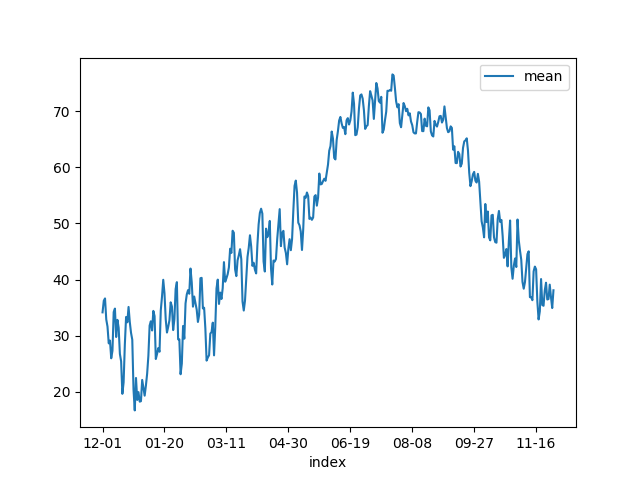
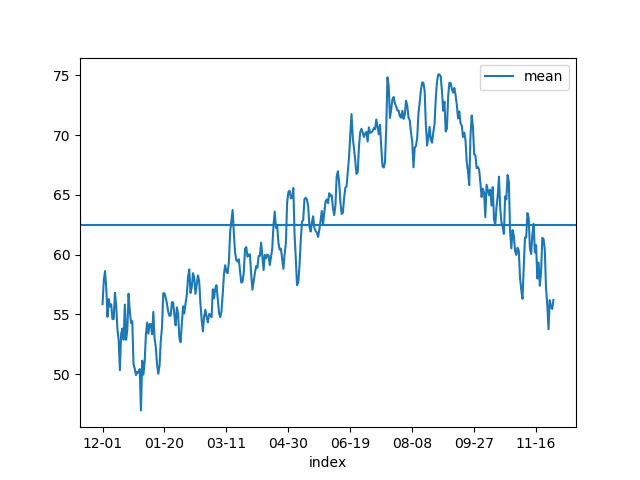
var calc

diff --git a/src/weather.py b/src/weather.py
@@ -4,6 +4,7 @@ import matplotlib.pyplot as plt
 from datetime import datetime
 
 
+
 def import_weather_data(file_path):
     #import file drops empty 1st row
     df_inter = pd.read_csv(file_path)
@@ -26,7 +27,38 @@ def filter_strange_outliers(df_year,city):
     for i in range(len(df_year[city])-1):
         while i<len(df_year[city])-1 and (abs(df_year.iloc[i][city]-df_year.iloc[i+1][city]))>14:
             df_year.drop(df_year.index[i+1],inplace = True) 
+
+def mean_town(df_temps_year,city,plot=False):
+    df_temp_2012 =  df_temps_year[0][['datetime',city]]
+    df_temp_2013 =  df_temps_year[1][['datetime',city]]
+    df_temp_2014 =  df_temps_year[2][['datetime',city]]
+    df_temp_2015 =  df_temps_year[3][['datetime',city]]
+    df_temp_2016 =  df_temps_year[4][['datetime',city]]
+    temps = [df_temp_2012,df_temp_2013,df_temp_2014,df_temp_2015,df_temp_2016]
+    means = []
+    for i in temps:
+        df_temps=i.copy()
+        filter_strange_outliers(df_temps,city)
+        means.append(df_temps.groupby([df_temps['datetime'].dt.date])[city].mean())
+    for i in means:
+        i.rename(index = lambda s: s.strftime('%m-%d'),inplace=True)
+    agg_temp = pd.concat(means ,axis =1)
+    agg_temp = agg_temp[:-1]
+    
+    agg_temp['mean'] = agg_temp.mean(axis=1)
+    agg_temp.reset_index().plot(x='index',y ='mean')
+
+    temp_var = agg_temp['mean'].var()
+    if plot:
+        plt.axhline(y=agg_temp['mean'].mean())
+        plt.ylim(-5,100)
+        file = 'img/{}_avg'.format(city)
+        plt.savefig(file)
+        plt.show()
+    return temp_var
+
    
+
 if __name__ == "__main__":
     #import weather csv files
     #df_humid= import_weather_data('data/humidity.csv')
@@ -74,66 +106,50 @@ if __name__ == "__main__":
     #df_description_2012 = split_by_date(df_description,date_start,date_end)
 
     #filter by city
-    #df_humid_2012 =  df_humid_2012[['datetime','Denver']]
-    df_temp_2012_den =  df_temps_year[0][['datetime','Denver']]
-    df_temp_2013_den =  df_temps_year[1][['datetime','Denver']]
-    df_temp_2014_den =  df_temps_year[2][['datetime','Denver']]
-    df_temp_2015_den =  df_temps_year[3][['datetime','Denver']]
-    df_temp_2016_den =  df_temps_year[4][['datetime','Denver']]
+    den_var = mean_town(df_temps_year,'Denver',True)
+    sd_var =mean_town(df_temps_year, "San Diego",True)
+    
+    #calc var for every city
+    # cities =df_temp.columns[1:]
+    # daily_mean_temp_var =[]
+    # for i in cities:
+    #     daily_mean_temp_var.append(mean_town(df_temps_year,i))
+    # var_tuples = list(zip(cities,daily_mean_temp_var))
+    # df_daily_mean_temp_var = pd.DataFrame(var_tuples, columns =['City', "Daily avg temperature variance"])
 
-   
 
-    df_temp_2012_sd =  df_temps_year[0][['datetime','San Diego']]
-    df_temp_2013_sd =  df_temps_year[1][['datetime','San Diego']]
-    df_temp_2014_sd =  df_temps_year[2][['datetime','San Diego']]
-    df_temp_2015_sd =  df_temps_year[3][['datetime','San Diego']]
-    df_temp_2016_sd =  df_temps_year[4][['datetime','San Diego']]
+  
+    # df_daily_mean_temp_var.savefig('daily_mean_temp_var.png')
+
 
     
+    
 
+    
+    #df_humid_2012 =  df_humid_2012[['datetime','Denver']]
     #df_pres_2012 =  df_pres_2012[['datetime','Denver']]
     #df_wind_2012 =  df_wind_2012[['datetime','Denver']]
-    #df_description_2012 =  df_description_2012[['datetime','Denver']] 
+    #df_description_2012 =  df_description_2012[['datetime','Denver']]  
     #print(df_description_2012['Denver'].unique())
 
     #drop inaccurate pressures
     #df_pres_2012.drop(df_pres_2012[df_pres_2012['Denver']<990].index,inplace = True)
     #df_pres_2012.drop(df_pres_2012[df_pres_2012['Denver']>1045].index,inplace = True)
 
+    
+    # one year temp data
+    df_temp_2012_den =  df_temps_year[0][['datetime','Denver']]
+
     df_temp_2012=df_temp_2012_den.copy()
     filter_strange_outliers(df_temp_2012,'Denver')
-    df_temp_2012_daily_mean = df_temp_2012.groupby([df_temp_2012['datetime'].dt.date])['Denver'].mean()
-
-    df_temp_2013=df_temp_2013_den.copy()
-    filter_strange_outliers(df_temp_2013,'Denver')
-    df_temp_2013_daily_mean = df_temp_2013.groupby([df_temp_2013['datetime'].dt.date])['Denver'].mean()
-
-    df_temp_2014=df_temp_2014_den.copy()
-    filter_strange_outliers(df_temp_2014,'Denver')
-    df_temp_2014_daily_mean = df_temp_2014.groupby([df_temp_2014['datetime'].dt.date])['Denver'].mean()
-
-    df_temp_2015=df_temp_2015_den.copy()
-    filter_strange_outliers(df_temp_2015,'Denver')
-    df_temp_2015_daily_mean = df_temp_2015.groupby([df_temp_2015['datetime'].dt.date])['Denver'].mean()
-
-    df_temp_2016=df_temp_2016_den.copy()
-    filter_strange_outliers(df_temp_2016,'Denver')
-    df_temp_2016_daily_mean = df_temp_2016.groupby([df_temp_2016['datetime'].dt.date])['Denver'].mean()
-   
-
-
     
-    df_temp_y_sd = df_temp_2012_sd.copy()
-    filter_strange_outliers(df_temp_y_sd,'San Diego')
-    #calc nans    
    
-    print(1-(len(df_temp_2012['Denver'].dropna())/len(df_temp_2012_den)))
-    print(1-(len(df_temp_2013['Denver'].dropna())/len(df_temp_2013_den)))
-    print(1-(len(df_temp_2014['Denver'].dropna())/len(df_temp_2014_den)))
-    print(1-(len(df_temp_2015['Denver'].dropna())/len(df_temp_2015_den)))
-    print(1-(len(df_temp_2016['Denver'].dropna())/len(df_temp_2016_den)))
 
-    print(1-(len(df_temp_y_sd['San Diego'].dropna())/len(df_temp_2012_sd)))
+
+    df_temp_2012_sd_c =  df_temps_year[0][['datetime','San Diego']]
+    df_temp_2012_sd = df_temp_2012_sd_c.copy()
+    filter_strange_outliers(df_temp_2012_sd,'San Diego')
+    
     
    
     
@@ -162,7 +178,7 @@ if __name__ == "__main__":
     
     
     
-    
+    df_temp_2012_daily_mean = df_temp_2012.groupby([df_temp_2012['datetime'].dt.date])['Denver'].mean()
     df_temp_2012_daily_min = df_temp_2012.groupby([df_temp_2012['datetime'].dt.date])['Denver'].min()
     df_temp_2012_daily_max = df_temp_2012.groupby([df_temp_2012['datetime'].dt.date])['Denver'].max()
    
@@ -189,19 +205,14 @@ if __name__ == "__main__":
     plt.show()
 
     #aggregate
-    df_temp_2012_daily_mean.rename(index = lambda s: s.strftime('%m-%d'),inplace=True)
-    df_temp_2013_daily_mean.rename(index = lambda s: s.strftime('%m-%d'),inplace=True)
-    df_temp_2014_daily_mean.rename(index = lambda s: s.strftime('%m-%d'),inplace=True)
-    df_temp_2015_daily_mean.rename(index = lambda s: s.strftime('%m-%d'),inplace=True)
-    df_temp_2016_daily_mean.rename(index = lambda s: s.strftime('%m-%d'),inplace=True)
-    agg_temp = pd.concat([df_temp_2012_daily_mean,df_temp_2013_daily_mean,df_temp_2014_daily_mean,df_temp_2015_daily_mean,df_temp_2016_daily_mean] ,axis =1)
-    agg_temp = agg_temp[:-1]
+    # df_temp_2012_daily_mean.rename(index = lambda s: s.strftime('%m-%d'),inplace=True)
+    # df_temp_2013_daily_mean.rename(index = lambda s: s.strftime('%m-%d'),inplace=True)
+    # df_temp_2014_daily_mean.rename(index = lambda s: s.strftime('%m-%d'),inplace=True)
+    # df_temp_2015_daily_mean.rename(index = lambda s: s.strftime('%m-%d'),inplace=True)
+    # df_temp_2016_daily_mean.rename(index = lambda s: s.strftime('%m-%d'),inplace=True)
     
-    agg_temp['mean'] = agg_temp.mean(axis=1)
-    agg_temp.reset_index().plot(x='index',y ='mean')
-    plt.savefig('img/den_avg')
-    plt.show()
    
+    
 
 
     #seasonal
